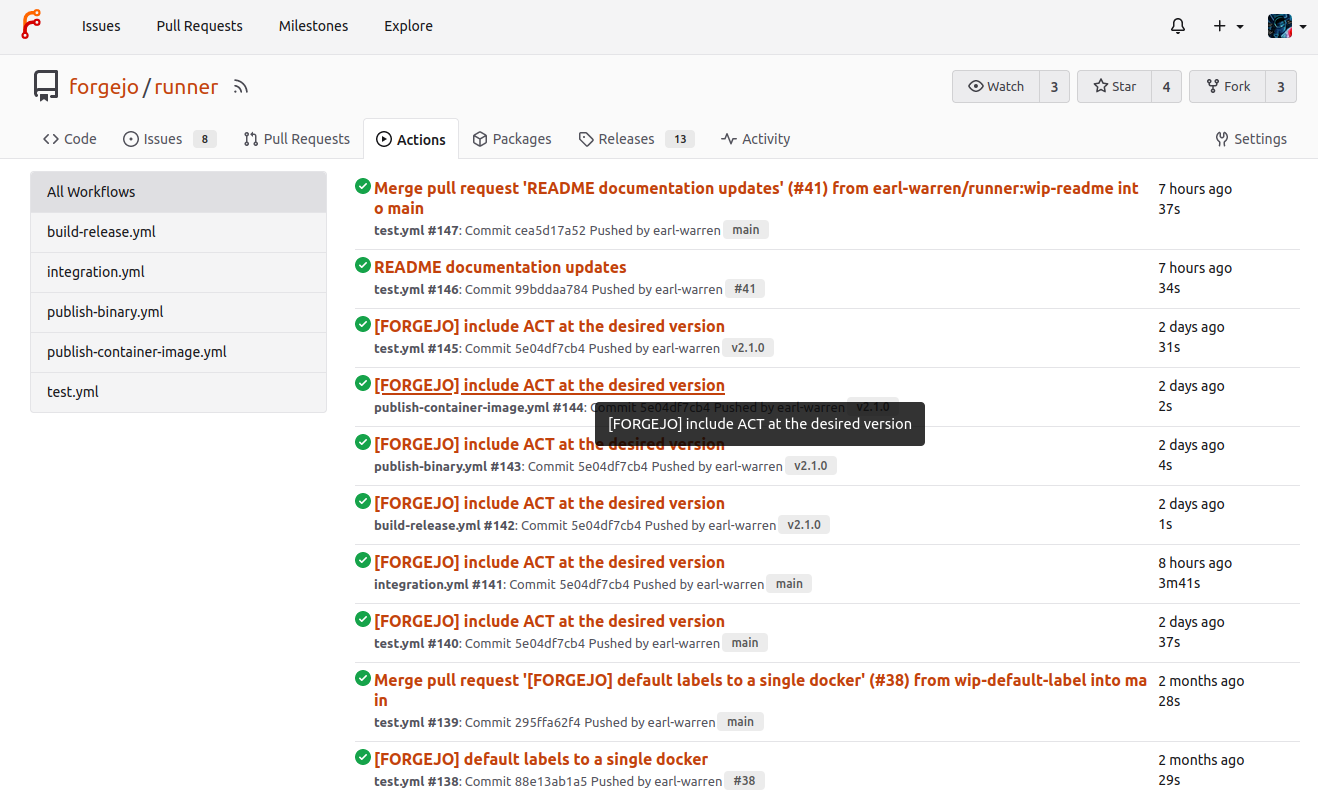
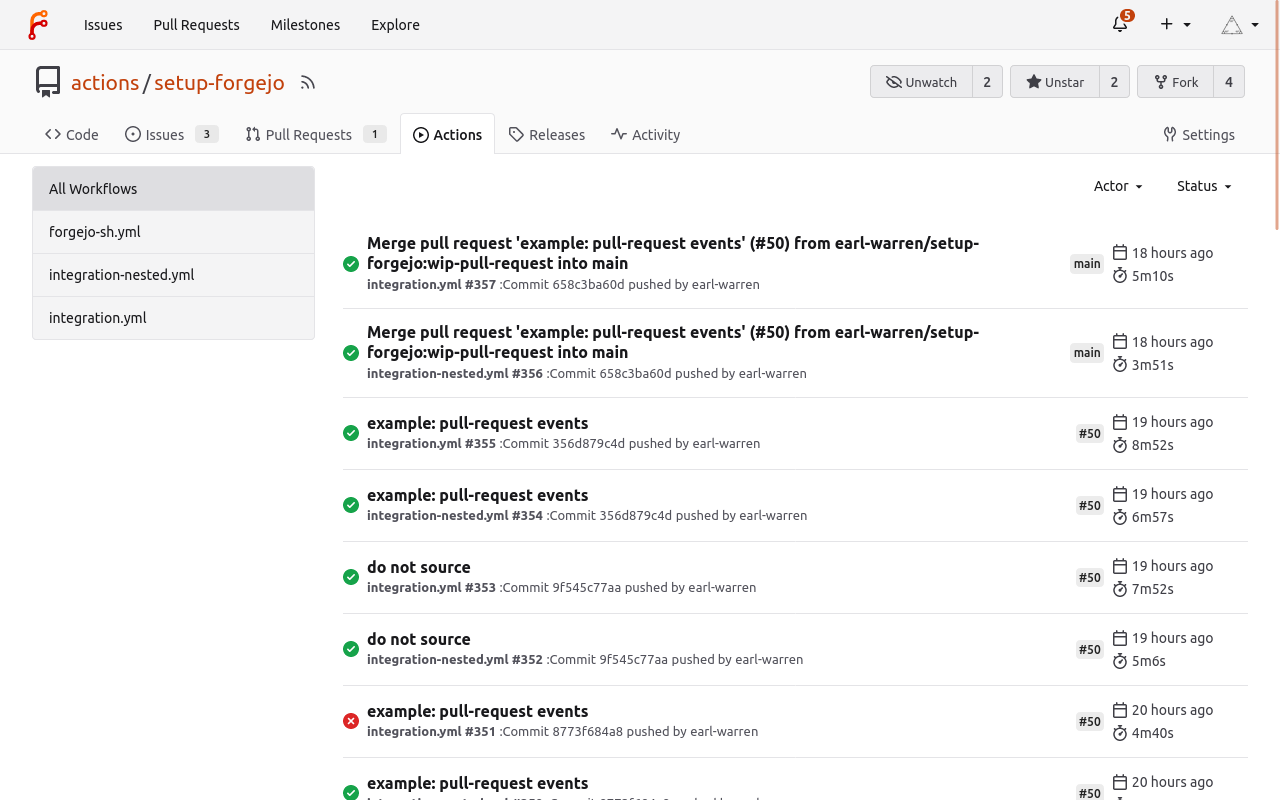
user: actions: disable / enable a workflow from the UI
and also update the screenshots of the list of tasks and the details
of a task.

(cherry picked from commit f5d5e6d7b405024b54a344359a2237c06dbaacac)

diff --git a/docs/user/actions.md b/docs/user/actions.md
@@ -182,7 +182,11 @@ From the `Actions` tab in a repository, the list of ongoing and past tasks trigg
 
 Following the link on a task displays the logs and the `Re-run all jobs` button. It is also possible to re-run a specific job by hovering on it and clicking on the arrows.
 
-![the details of an action](../_images/user/actions/actions-detail.png)
+![the details of a task](../_images/user/actions/actions-detail.png)
+
+A `workflow` can be disabled (or enabled) by selecting it and using the three dot menu to the right.
+
+![disabling a workflow](../_images/user/actions/actions-disable.png)
 
 ## Pull request actions are moderated
 
